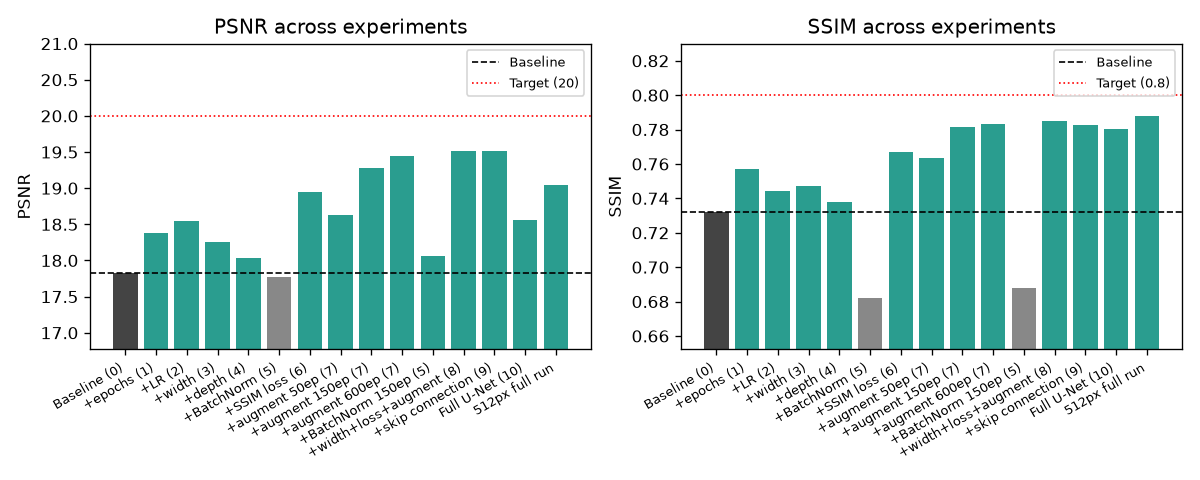
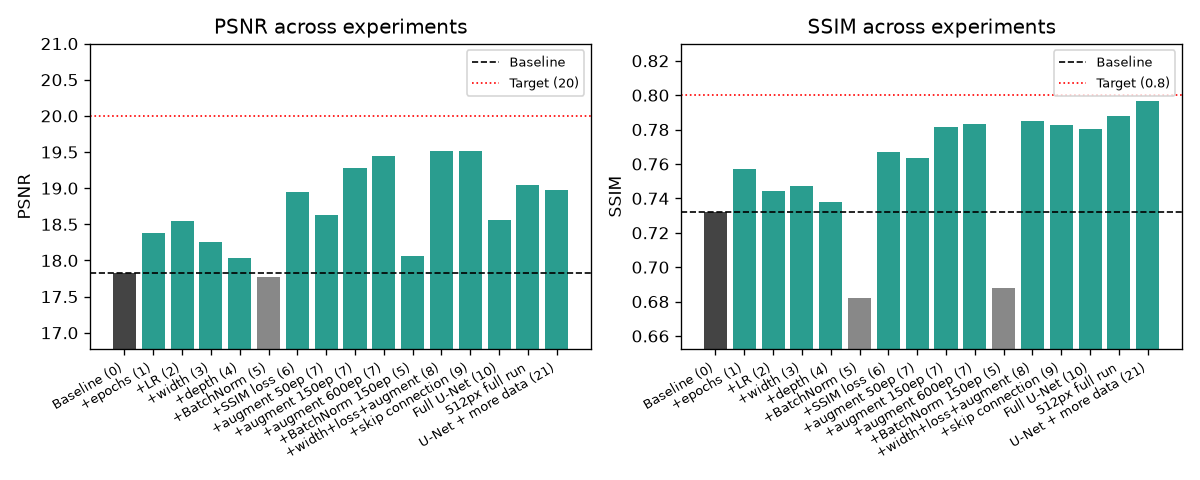
Log Run 21: Step 10's U-Net revisited on the expanded dataset
Same U-Net config as Run 18, just 1,174 pairs instead of 485 - both
metrics improved (18.56/0.7806 -> 18.97/0.7969), now beating Run 15 on
SSIM but still short on PSNR. Supports that overfitting, not the
architecture, was Run 18's problem. Not adopted as best; models_step8_combined/
remains the project's best checkpoint.

diff --git a/chart.py b/chart.py
@@ -23,6 +23,7 @@ RUNS = [
     ("+skip connection (9)", 19.52, 0.7827),
     ("Full U-Net (10)", 18.56, 0.7806),
     ("512px full run", 19.05, 0.7879),
+    ("U-Net + more data (21)", 18.97, 0.7969),
 ]
 
 PSNR_TARGET = 20

diff --git a/PROGRESS.md b/PROGRESS.md
@@ -431,6 +431,45 @@ First Phase 2 run — no `data/high` used anywhere, trained on Colab GPU.
   three losses (spatial consistency, color constancy, illumination
   smoothness) one at a time, each expected to close part of this gap.
 
+### Run 21 — Step 10 revisited: full U-Net on the expanded dataset (complete)
+
+A Phase 1 side-quest, not a Phase 2 step — prompted by adding LOLv2-real's
+689 pairs to `data/` (see README/CLAUDE.md), which was explicitly motivated
+by testing whether Run 18's U-Net overfitting finding changes with more
+data. Trained on Colab GPU (T4, after upgrading to a paid tier — the free
+tier's throttled CPU-only session made this impractical, ~53 min/epoch
+vs. the ~1-2 min/epoch a T4 gives this size of model).
+
+- Config: identical to Run 18 — `--epochs 150 --hidden-channels 32 --loss
+  ssim --augment --unet` -> `models_step10_unet_moredata/` (on Drive, not
+  committed) — only the dataset changed (1,174 pairs vs. 485), isolating
+  dataset size as the single variable against Run 18.
+- Training loss fell smoothly from 0.6274 (epoch 1) to 0.2214 (epoch
+  150), lower than Run 18's final 0.236 — consistent with more data
+  giving the network more to learn from without destabilizing training.
+- Evaluation on `eval15`: **PSNR=18.97, SSIM=0.7969**.
+
+| | PSNR | SSIM |
+|---|---|---|
+| Run 18 (U-Net, 485 pairs) | 18.56 | 0.7806 |
+| Run 21 (U-Net, 1,174 pairs) | 18.97 | 0.7969 |
+| Change | +0.41 | +0.0163 |
+| Run 15 (Step 8 combo, 485 pairs, current best) | 19.51 | 0.7849 |
+| Run 21 vs. Run 15 | -0.54 | +0.0120 |
+
+- **Conclusion: more data measurably helped the U-Net — both metrics
+  improved over Run 18, and it now actually beats Run 15 on SSIM**
+  (something no earlier U-Net/skip-connection/resolution variant managed).
+  This supports the original overfitting diagnosis: the extra capacity
+  itself wasn't the problem, there just wasn't enough data for it to be
+  used well. Still, PSNR remains below Run 15, so **this doesn't beat the
+  project's best on both metrics and isn't adopted** — `models_step8_combined/`
+  stays the best checkpoint. Open question this doesn't answer: does
+  Step 8's simpler recipe *also* improve by a similar margin on the bigger
+  dataset? If so, more data alone (independent of architecture) may be
+  the real lever here, not the U-Net specifically — worth testing Step 8's
+  exact recipe on the same 1,174-pair set before drawing a firmer conclusion.
+
 ## Roadmap — three phases, one change at a time within each
 
 The overall learning process, in order:
@@ -627,3 +666,4 @@ Step 8 remains the best result of the whole Phase 1 architecture search.
 | Run 15, epoch 150 (hc=64 + ssim loss + augment) | 19.51 | 0.7849 | Step 8 combo — **new best**, beats Run 13 with 4x less compute |
 | Run 16, epoch 150 (+ skip connection) | 19.52 | 0.7827 | Step 9 — essentially a wash vs Run 15, not adopted as best |
 | Run 18, epoch 150 (U-Net, hc=32) | 18.56 | 0.7806 | Step 10 — worse despite 11.7x more params; overfitting, not undertraining |
+| Run 21, epoch 150 (U-Net, hc=32, +LOLv2-real data) | 18.97 | 0.7969 | Same as Run 18, 1,174 pairs instead of 485 — both metrics up, beats Run 15 on SSIM, still not on PSNR |

diff --git a/CLAUDE.md b/CLAUDE.md
@@ -150,9 +150,13 @@ illumination smoothness) one at a time, same isolated-change method.
   `eval15_low/`+`eval15_high/` held out for evaluation). Now 1,174
   training pairs — original LOLv1 (485) + LOLv2-real's training split
   (689, filenames prefixed `v2_`) — added to test whether more data
-  changes earlier findings (e.g. Step 10's U-Net overfit on just 485
-  images). `eval15` (LOLv1's 15 held-out pairs) stays untouched as the
-  fixed benchmark across every run. Source documented in `README.md`.
+  changes earlier findings. **Confirmed for Step 10's U-Net**: Run 21
+  (same U-Net config as Run 18, just the bigger dataset) improved on both
+  metrics (18.56/0.7806 -> 18.97/0.7969), beating Run 15 on SSIM but still
+  short on PSNR — not adopted as best, but supports that overfitting (not
+  the architecture itself) was Run 18's problem. `eval15` (LOLv1's 15
+  held-out pairs) stays untouched as the fixed benchmark across every run.
+  Source documented in `README.md`.
 - `evaluate.py` + `metrics.py`: PSNR/SSIM evaluation against the held-out
   eval set — use this, not just training loss, to judge whether a change
   actually helped.

diff --git a/COLAB_RESULTS.md b/COLAB_RESULTS.md
@@ -2,24 +2,3 @@
 
 Transient handoff file — `colab_train.ipynb`'s last cell appends here and pushes.
 Claude reads new entries, writes them into `PROGRESS.md` properly, then clears this file.
-
-## Colab run — 2026-10-13 16:18
-
-Command: (paste the train.py command you used above)
-Checkpoint dir (on Drive, not in git): /content/drive/MyDrive/Riddick_checkpoints/models_step10_unet_moredata
-Final epoch: 150
-Eval result: (paste the PSNR/SSIM output from the cell above)
-
-## Colab run — 2026-10-13 16:26
-
-Command: (paste the train.py command you used above)
-Checkpoint dir (on Drive, not in git): /content/drive/MyDrive/Riddick_checkpoints/models_colab_run
-Final epoch: 150
-Eval result: (paste the PSNR/SSIM output from the cell above)
-
-## Colab run — 2026-10-13 19:45
-
-Command: (paste the train.py command you used above)
-Checkpoint dir (on Drive, not in git): /content/drive/MyDrive/Riddick_checkpoints/models_step10_unet_moredata
-Final epoch: 150
-Eval result: (paste the PSNR/SSIM output from the cell above)
